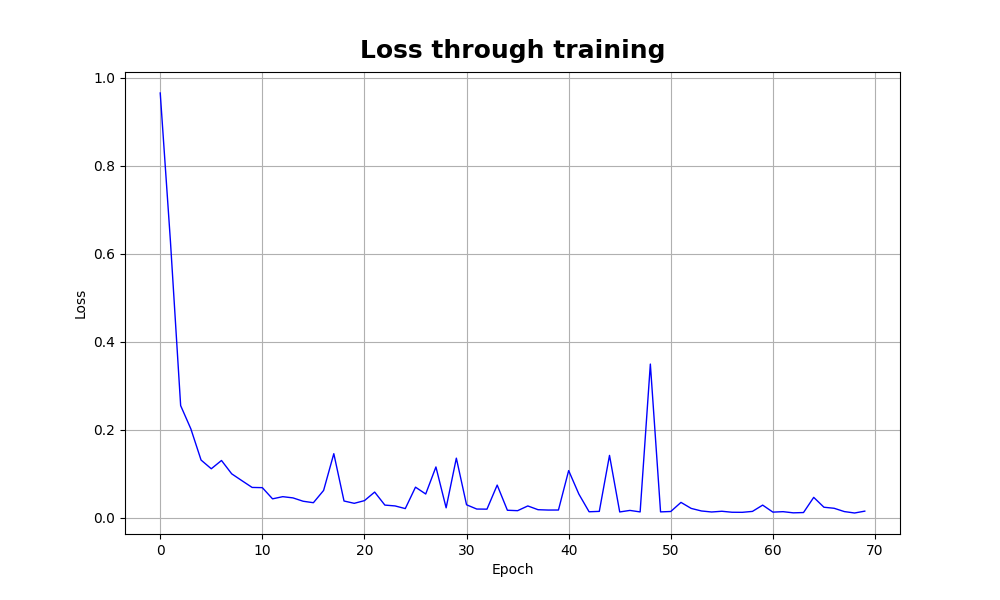
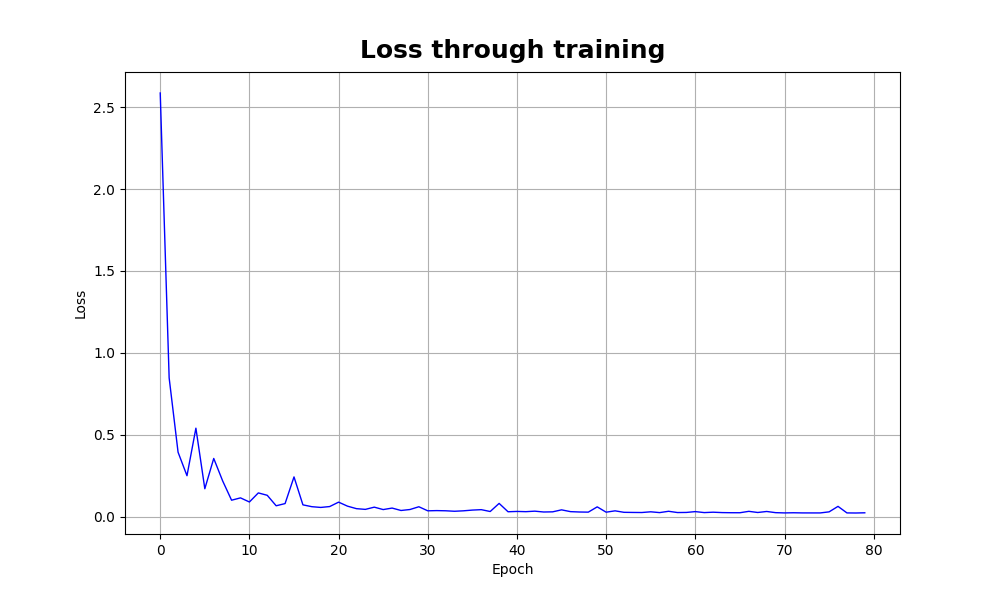
commit

diff --git a/Main.py b/Main.py
@@ -27,10 +27,10 @@ def main():
 
     # definisci possibili scelte per cross validation
     input_layer = X_train.shape[0]
-    num_neurons_list = [[input_layer, 64, 1], [input_layer, 128, 1], [input_layer, 64, 32, 1], [input_layer, 128, 32, 1], [input_layer, 128, 64, 1], [input_layer, 128, 64, 32, 1], [input_layer, 128, 64, 64, 1]]
+    num_neurons_list = [[input_layer, 128, 1], [input_layer, 128, 32, 1], [input_layer, 128, 64, 1], [input_layer, 128, 64, 32, 1], [input_layer, 128, 64, 64, 1]]
     lambda_list = [1e-3, 1e-1]
     activation_fn_list = ["relu", "tanh"]
-    minibatch_size_list = [32]
+    minibatch_size_list = [32, 128]
     num_epochs_list = [70]
     best_parameters, activation_function = cross_validation(X_train, y_train, X_val, y_val, num_neurons_list, lambda_list, activation_fn_list, num_epochs_list, minibatch_size_list, dir)
 

diff --git a/SeoulBikePreprocessing.py b/SeoulBikePreprocessing.py
@@ -12,9 +12,6 @@ def SeoulBikeData():
     data['Month'] = data['Date'].dt.month.astype(int)
     data.drop('Date', axis=1, inplace=True)
 
-    # handling 0 target values
-    data = data[(data["Rented Bike Count"] != 0)]
-
     X = data.copy()
     y = X.pop('Rented Bike Count')  # target column
 
@@ -27,10 +24,6 @@ def SeoulBikeData():
 
     numerical = train_data.select_dtypes(include=['number']).columns
     categorical = train_data.select_dtypes(include=['object', 'category']).columns
-
-    train_data = train_data[(train_data["Humidity"] >= 10)]
-    train_data = train_data[(train_data["Rainfall"] <= 5)]
-    train_data = train_data[(train_data["Snowfall"] <= 4)]
 
     plot_features(train_data, numerical, dir = "seoulbike")
     plot_features(train_data, categorical, dir="seoulbike")

diff --git a/AirQualityPreprocessing.py b/AirQualityPreprocessing.py
@@ -42,13 +42,6 @@ def AirQualityData():
 
     numerical = train_data.loc[:, (train_data.dtypes == int) | (train_data.dtypes == float)].columns.tolist()
 
-    train_data = train_data[(train_data["C6H6(GT)"] <= 50)]
-    train_data = train_data[(train_data["NO2(GT)"] <= 300)]
-    train_data = train_data[(train_data["PT08.S3(NOx)"] <= 2500)]
-    train_data = train_data[(train_data["NOx(GT)"] <= 1200)]
-    train_data = train_data[(train_data["PT08.S2(NMHC)"] <= 2000)]
-    train_data = train_data[(train_data["CO(GT)"] <= 9)]
-
     plot_features(train_data, numerical, dir = "airquality")
 
     numerical_features = ['PT08.S1(CO)', 'PT08.S2(NMHC)', 'PT08.S3(NOx)', 'PT08.S4(NO2)', 'PT08.S5(O3)', 'T', 'RH', 'AH', 'CO(GT)', 'NOx(GT)', 'NO2(GT)']

diff --git a/HousingPreprocessing.py b/HousingPreprocessing.py
@@ -22,11 +22,6 @@ def HousingData():
     numerical = train_data.select_dtypes(include=['number']).columns
     categorical = train_data.select_dtypes(include=['object', 'category']).columns
 
-    train_data = train_data[train_data["total_rooms"] <= 22000]
-    train_data = train_data[train_data["total_bedrooms"] <= 4000]
-    train_data = train_data[train_data["population"] <= 10000]
-    train_data = train_data[train_data["households"] <= 3500]
-
     plot_features(train_data, numerical, dir = "housing")
     plot_features(train_data, categorical, dir="housing")
 
